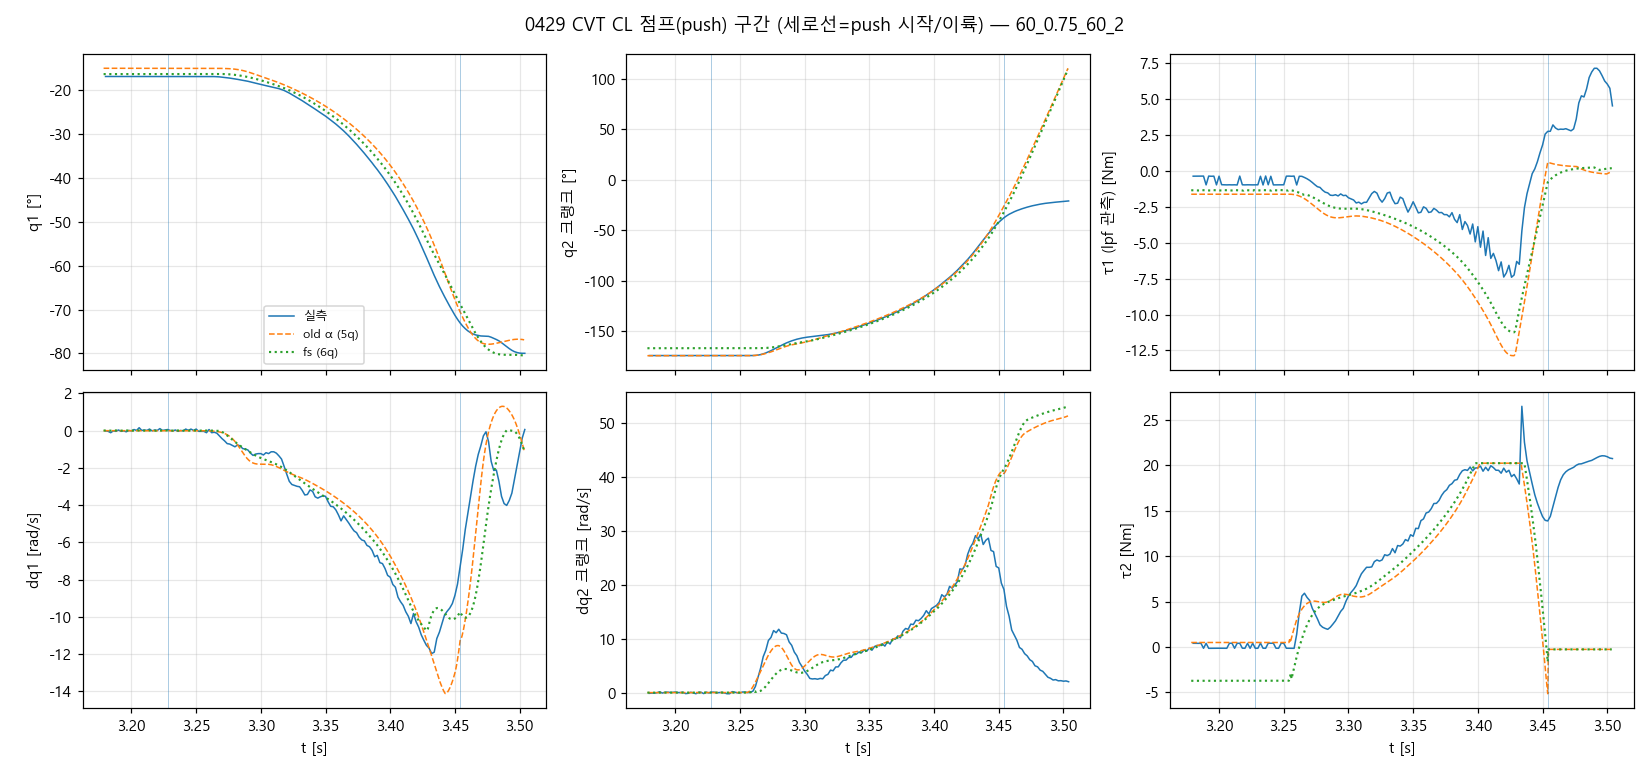
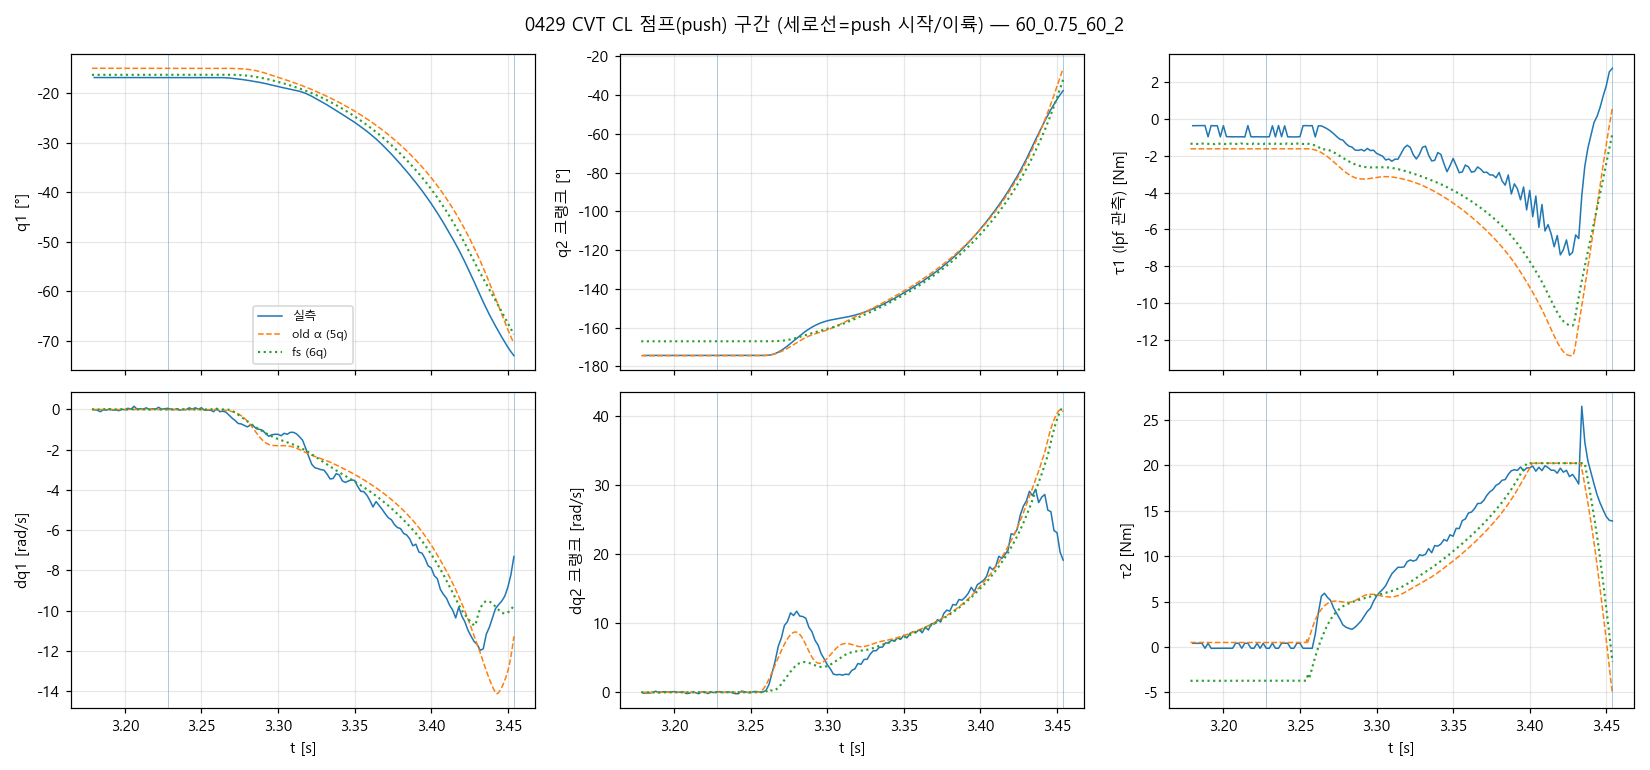
마라톤C: CL 그래프 이륙 절단 (커맨드-0 꼬리 제거 — 사용자 질문으로 발견)
Claude-Session: https://claude.ai/code/session_018tXRZDWy9RG1Z1qWD21UNo

diff --git a/code/goal23_fullspan/fs_cvt_plot.py b/code/goal23_fullspan/fs_cvt_plot.py
@@ -197,7 +197,7 @@ def main():
         dt5 = float(np.median(np.diff(Lo["t"])))
         pm = seg["push"][i0:][: len(t)]
         t_push0 = float(t[pm][0]) if pm.sum() else 0.0
-        w0, w1 = t_push0 - 0.05, t_end + 0.05          # 점프(push) 구간만
+        w0, w1 = t_push0 - 0.05, t_end                  # 점프(push) 구간만 — 이륙에서 절단 (이후 sim은 커맨드 0 관례라 비교 무의미)
         mseg = (t >= w0) & (t <= w1)
         tm = t[mseg]
         mo = (Lo["t"] >= w0) & (Lo["t"] <= w1)
